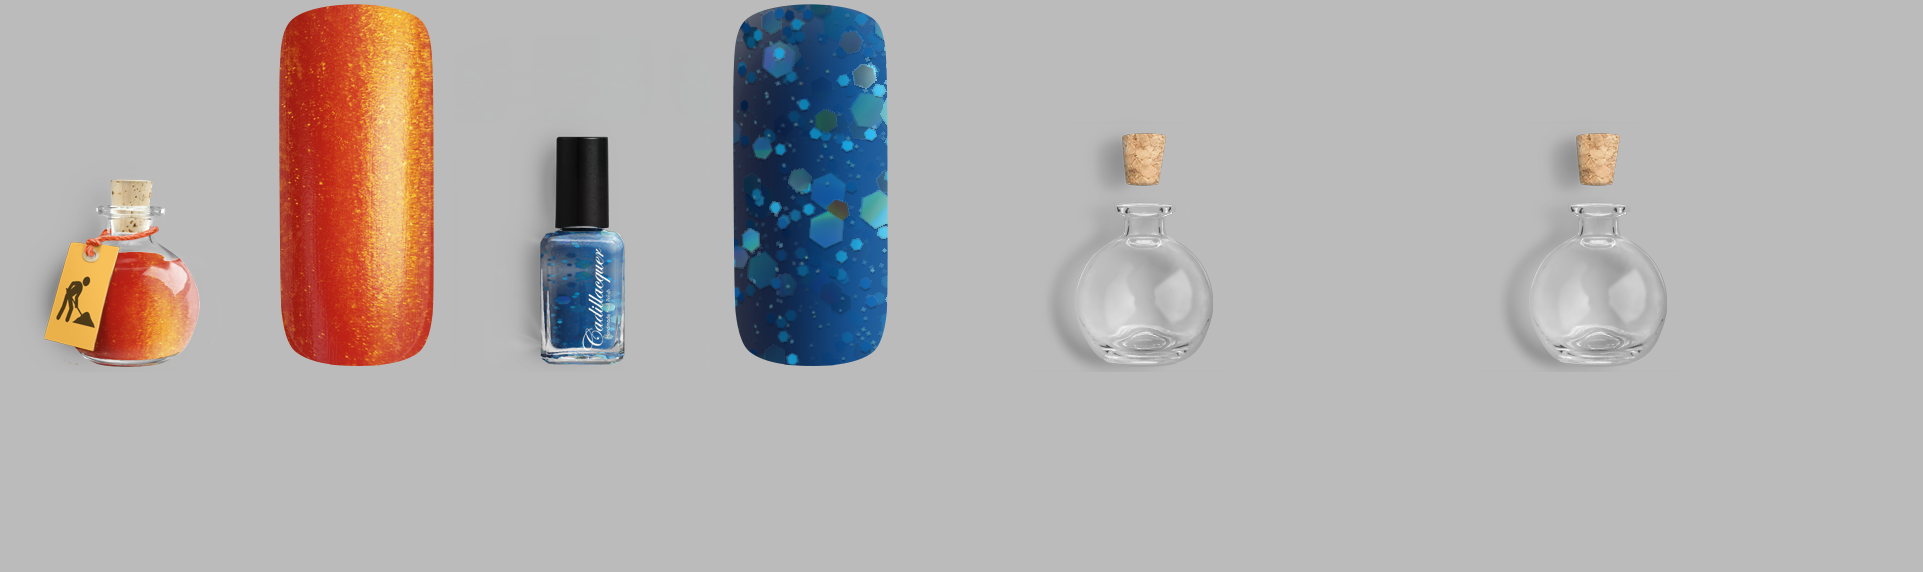
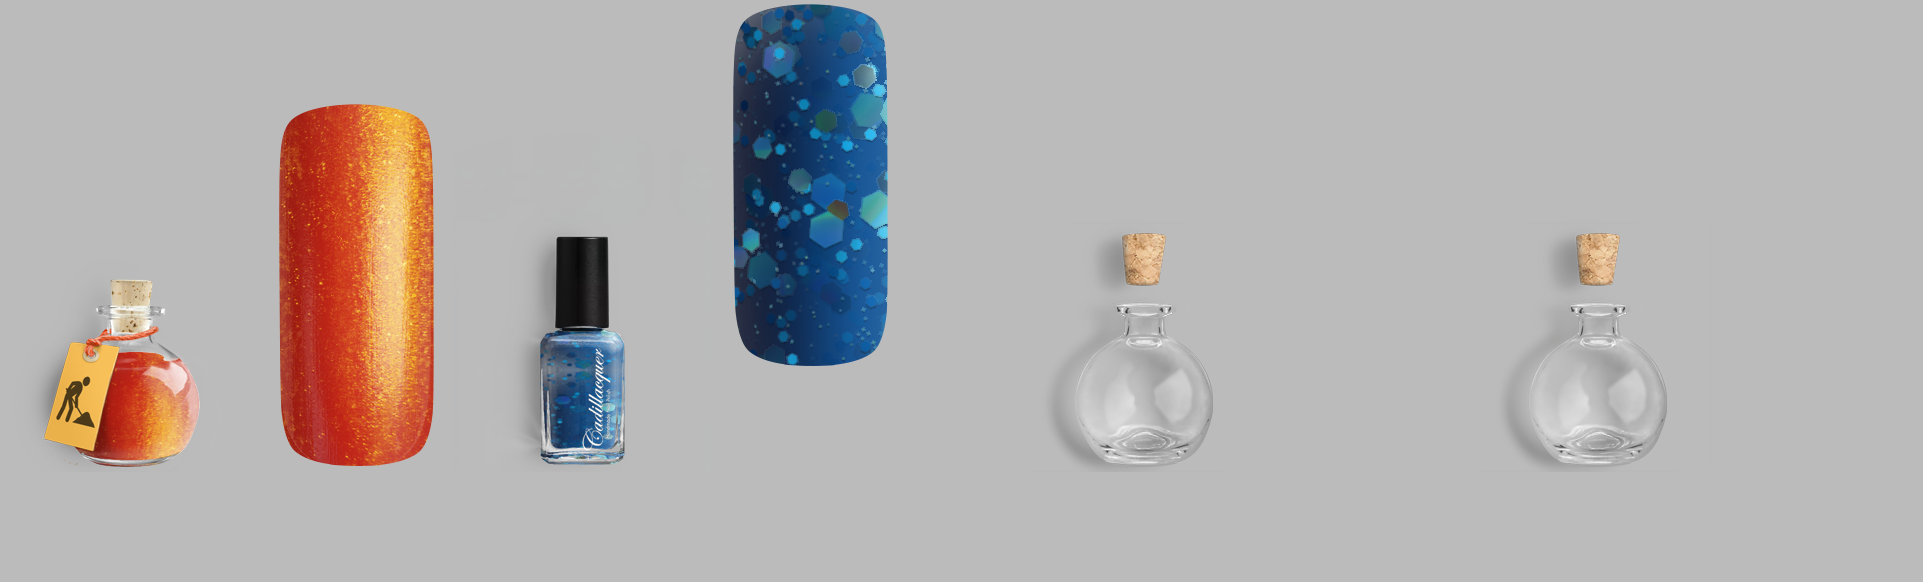
pango debug

diff --git a/app/models/box.rb b/app/models/box.rb
@@ -72,14 +72,14 @@ class Box < ActiveRecord::Base
       stack += " \\( #{path + (p.draft ? '/assets/draft.png' : p.bottle_url)} #{p.draft ? ' +append \\( -size 198x10 canvas:transparent \\) ' : path + p.preview_url} +append -size 254x10 canvas:transparent \\( -size 454 -gravity center -background transparent  pango:\"<span  size='25000' face='PT Sans Narrow'> #{p.brand_name} \\n #{p.number} <b>#{p.name}</b></span>\" \\) -append \\) "
       if ((i + 1).modulo(columns) == 0 ) || i == (polishes.size - 1)
         stack += " +append -background '#{bg}' -alpha remove"
-        Magick.delay(queue: 'export_' + self.user_id.to_s).convert('', stack, "/output_#{(i / columns).to_i}.png")
-        rows += path + "/output_#{(i / columns).to_i}.png "
+        Magick.convert('', stack, "/output_#{(i / columns).to_i}.png")
+        rows += path + "/output_#{(i / columns).to_i}.png \\( -size 198x10 canvas:#{bg} \\)  "
         stack = " -background '#{bg}'"
       elsif i.modulo(columns) != 0
         stack += ' +append'
       end
     end
-    Magick.delay(queue: 'export_' + self.user_id.to_s).convert(rows, ' -append', 'output.png')
+    Magick.convert(rows, ' -append', '/output.png')
   end
   
   def export_csv(bottle = false, nail = false, rating = false, note = false)

diff --git a/app/models/magick.rb b/app/models/magick.rb
@@ -8,8 +8,8 @@ class Magick < ActiveRecord::Base
   def self.convert source, options, output = nil
     output ||= source
     `convert #{self.p(source) + ' ' + options + ' ' + self.p(output)}` 
-    # puts '---------------------------'
-    # puts "/usr/local/bin/convert #{self.p(source) + ' ' + options + ' ' + self.p(output)}"
+    puts '---------------------------'
+    puts "/usr/local/bin/convert #{self.p(source) + ' ' + options + ' ' + self.p(output)}"
   end  
   
   def self.p name; (/-|\/U/ =~ name[0..1] ? '' :  Rails.root.join('public').to_s ) + name end

diff --git a/app/controllers/boxes_controller.rb b/app/controllers/boxes_controller.rb
@@ -34,7 +34,8 @@ class BoxesController < ApplicationController
     when 'img'
       # @box.export_image
       # send_file '/out.png', type: 'image/png', disposition: 'inline'
-      render plain: @box.export_image
+      @box.delay.export_image
+      render plain: 'lalala'
     end
   end
   
